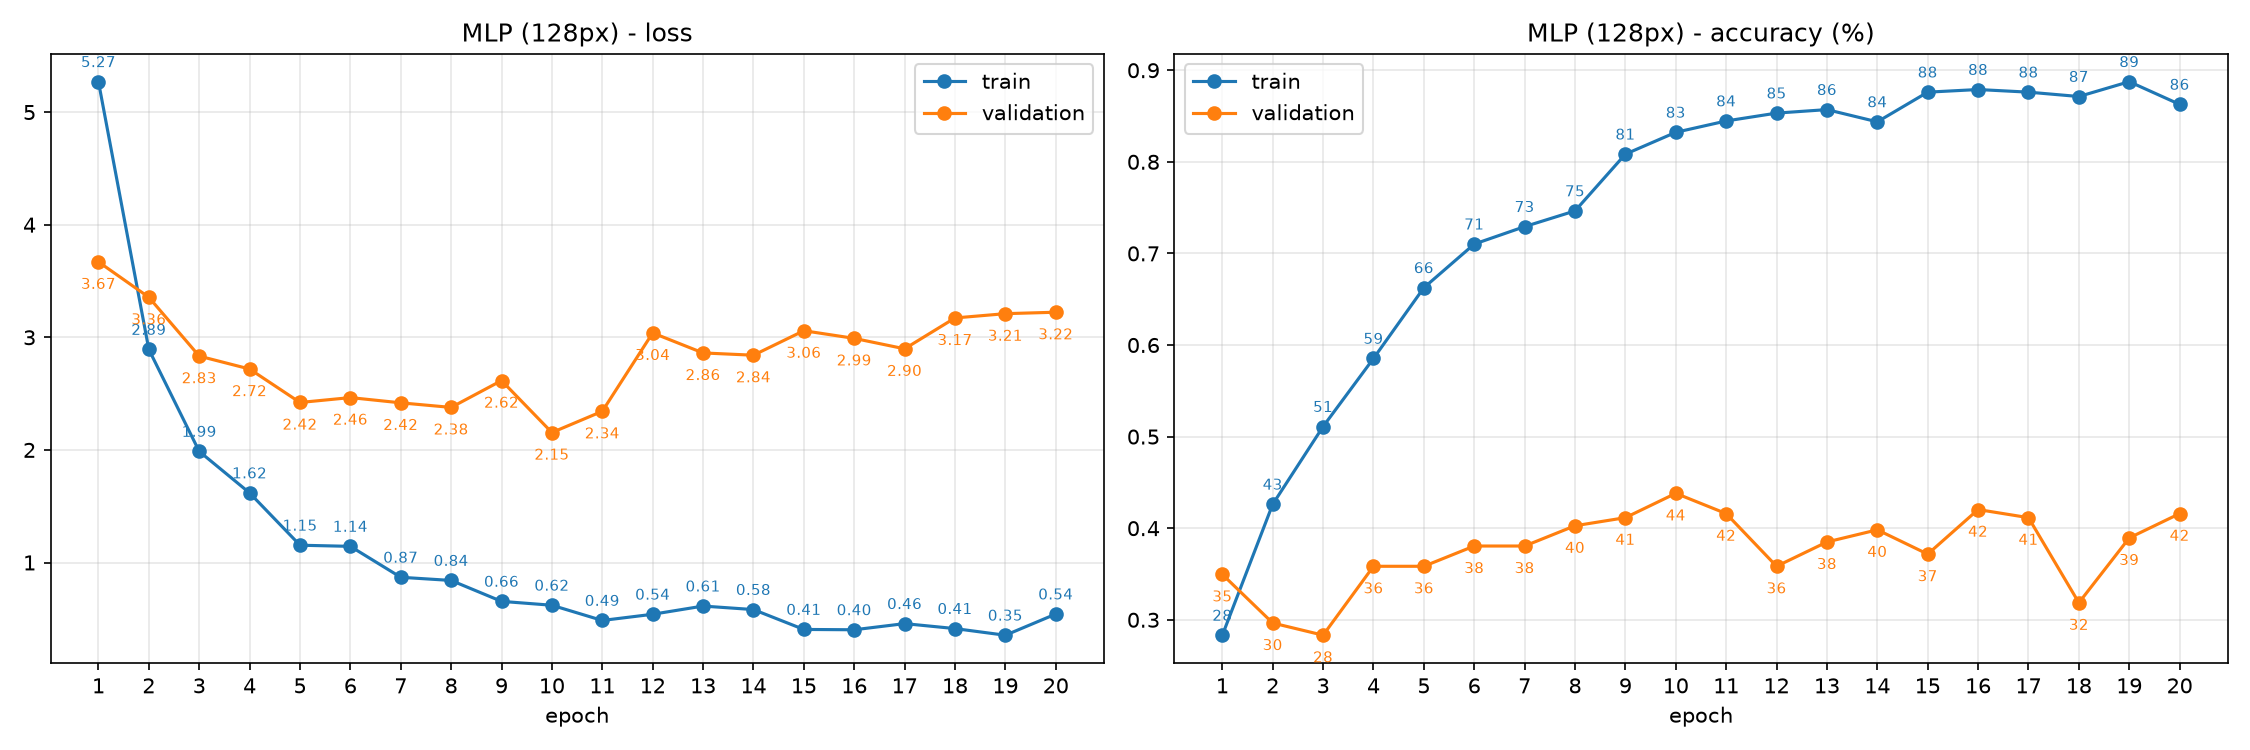
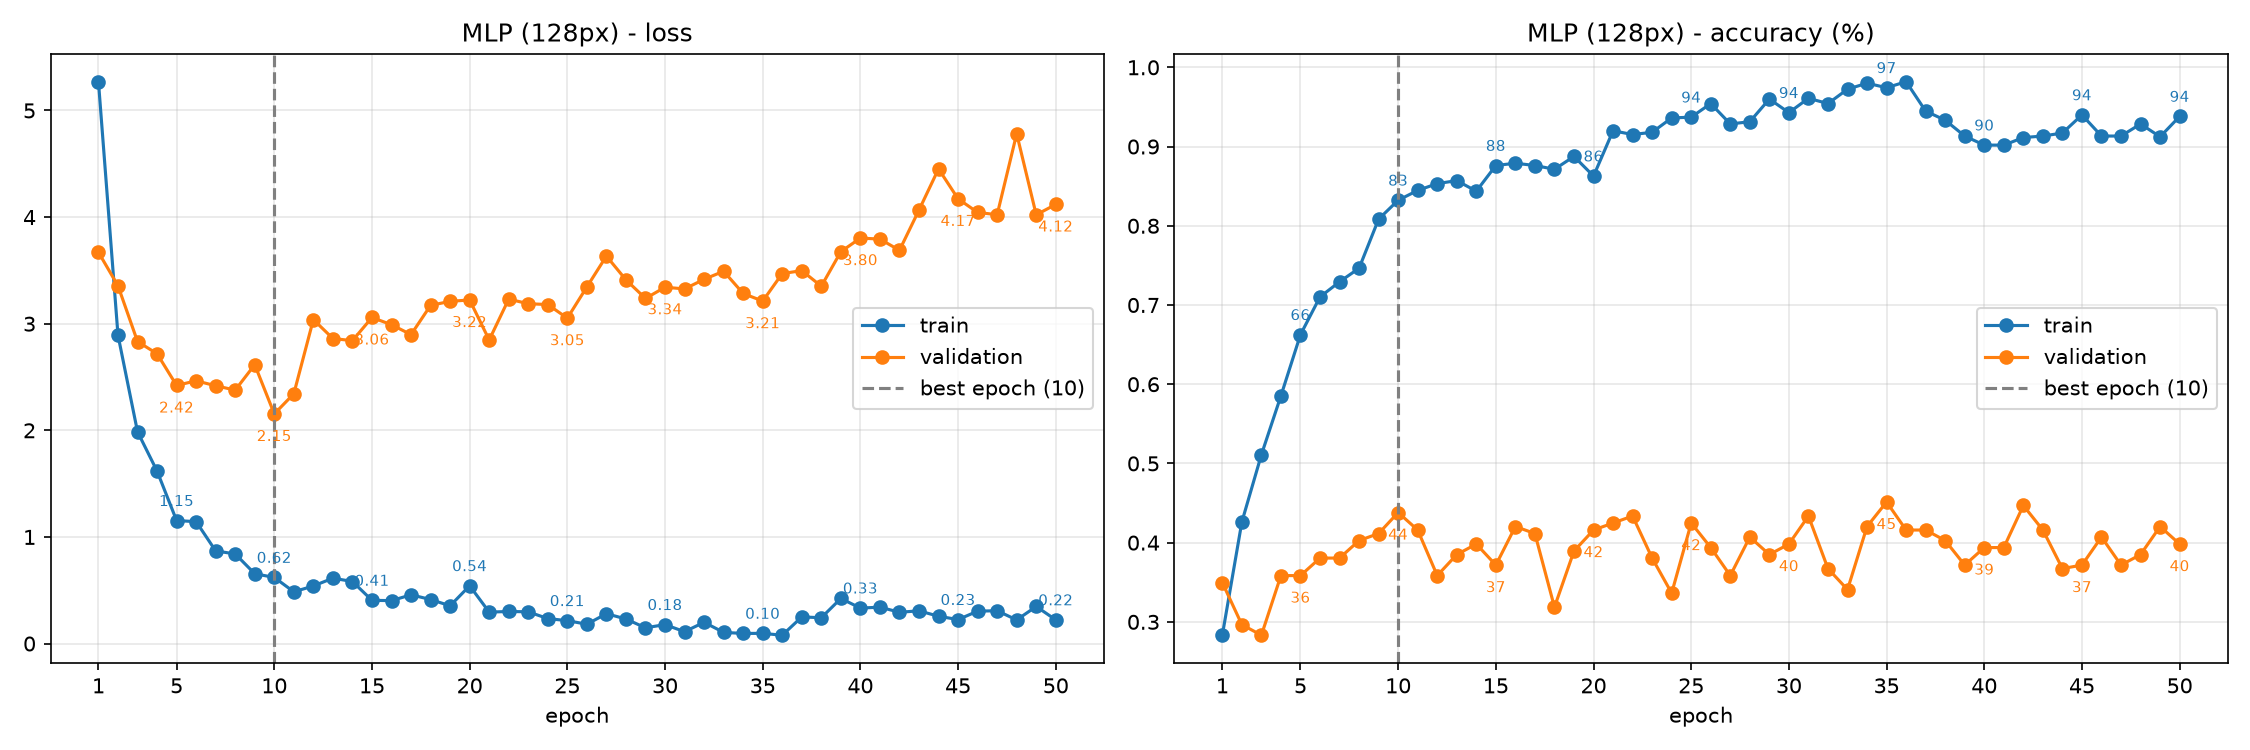
MLP: 50-epoch runs at 64px and 128px, best-epoch line on the curves

diff --git a/Deep Learning project/src/wikiart/train_mlp.py b/Deep Learning project/src/wikiart/train_mlp.py
@@ -14,9 +14,9 @@ from .model import WikiArtMLP
 from .train import set_seed, train_one_epoch, evaluate
 
 #SETTINGS
-EPOCHS = 20            # how many full passes through the training images
+EPOCHS = 50         # how many full passes through the training images
 LEARNING_RATE = 1e-3   # step size of the optimizer (same as the CNN, for a fair comparison)
-IMAGE_SIZE = 64        # 64x64 instead of 128x128: 12,288 inputs instead of 49,152
+IMAGE_SIZE = 128       # 64x64 instead of 128x128: 12,288 inputs instead of 49,152
 SEED = 0               # same seed as the CNN -> same train/val/test split
 RUN_TEST = True        # True only for the final model, False for experiments (128px)
 OUTPUT_DIR = Path("reports/mlp")
@@ -84,9 +84,12 @@ def main():
         # One dot per epoch on each line
         ax.plot(epochs, train_values, marker="o", label="train")
         ax.plot(epochs, val_values, marker="o", label="validation")
+        ax.axvline(best_epoch, color="gray", linestyle="--", label=f"best epoch ({best_epoch})")
 
         # values for each dot
         for x, y_train, y_val in zip(epochs, train_values, val_values):
+            if EPOCHS > 20 and x % 5 != 0:
+                continue
             if as_percent:
                 text_train, text_val = f"{y_train * 100:.0f}", f"{y_val * 100:.0f}"   # 0.372 -> "37"
             else:
@@ -98,7 +101,12 @@ def main():
 
         ax.set_title(title)
         ax.set_xlabel("epoch")
-        ax.set_xticks(epochs)    # epoch number on x 
+        
+        if EPOCHS > 20:
+            ax.set_xticks([1] + list(range(5, EPOCHS + 1, 5)))   # 1, 5, 10, 15 
+        else:
+            ax.set_xticks(epochs) # every epoch 
+            
         ax.grid(alpha=0.3)      
         ax.legend()
 
